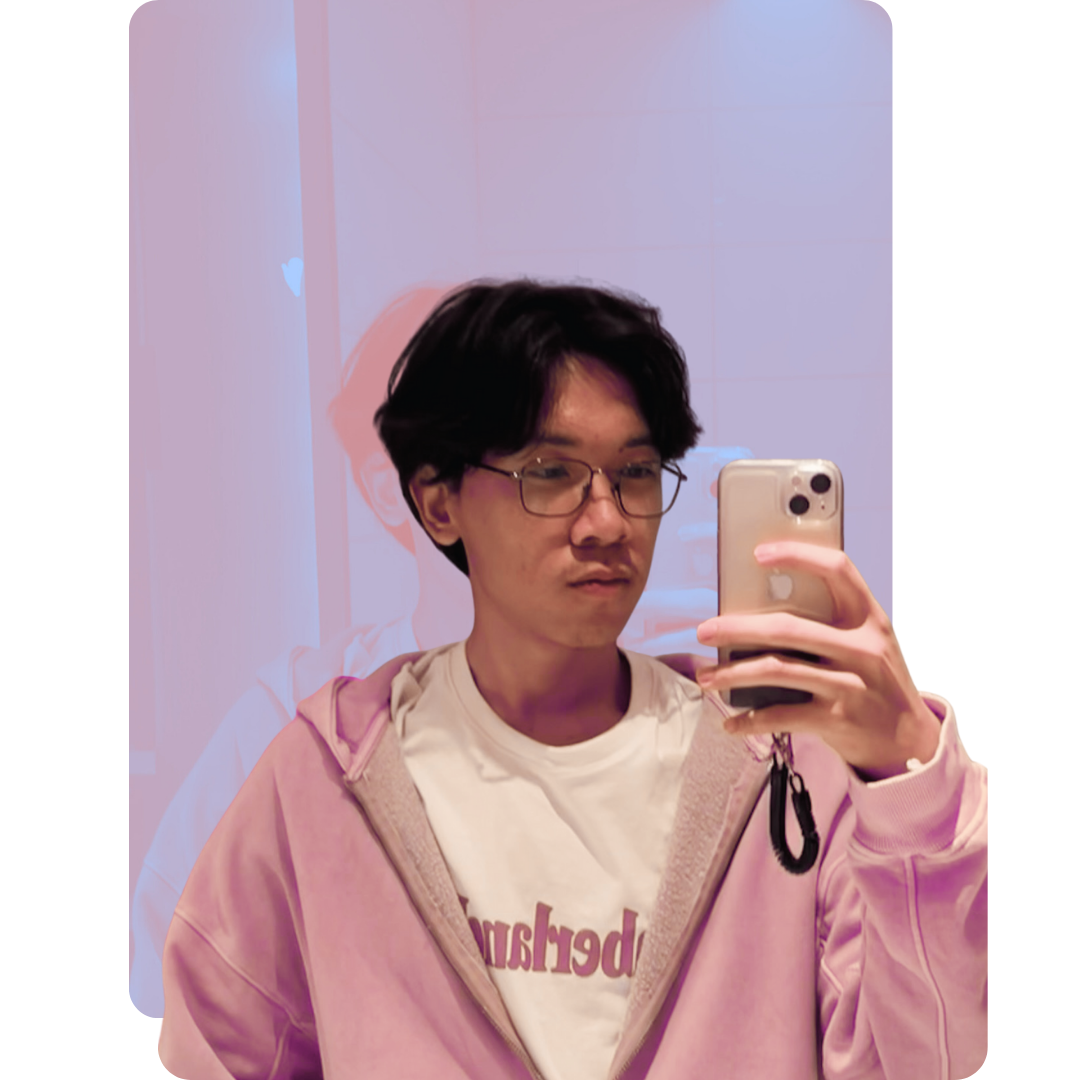
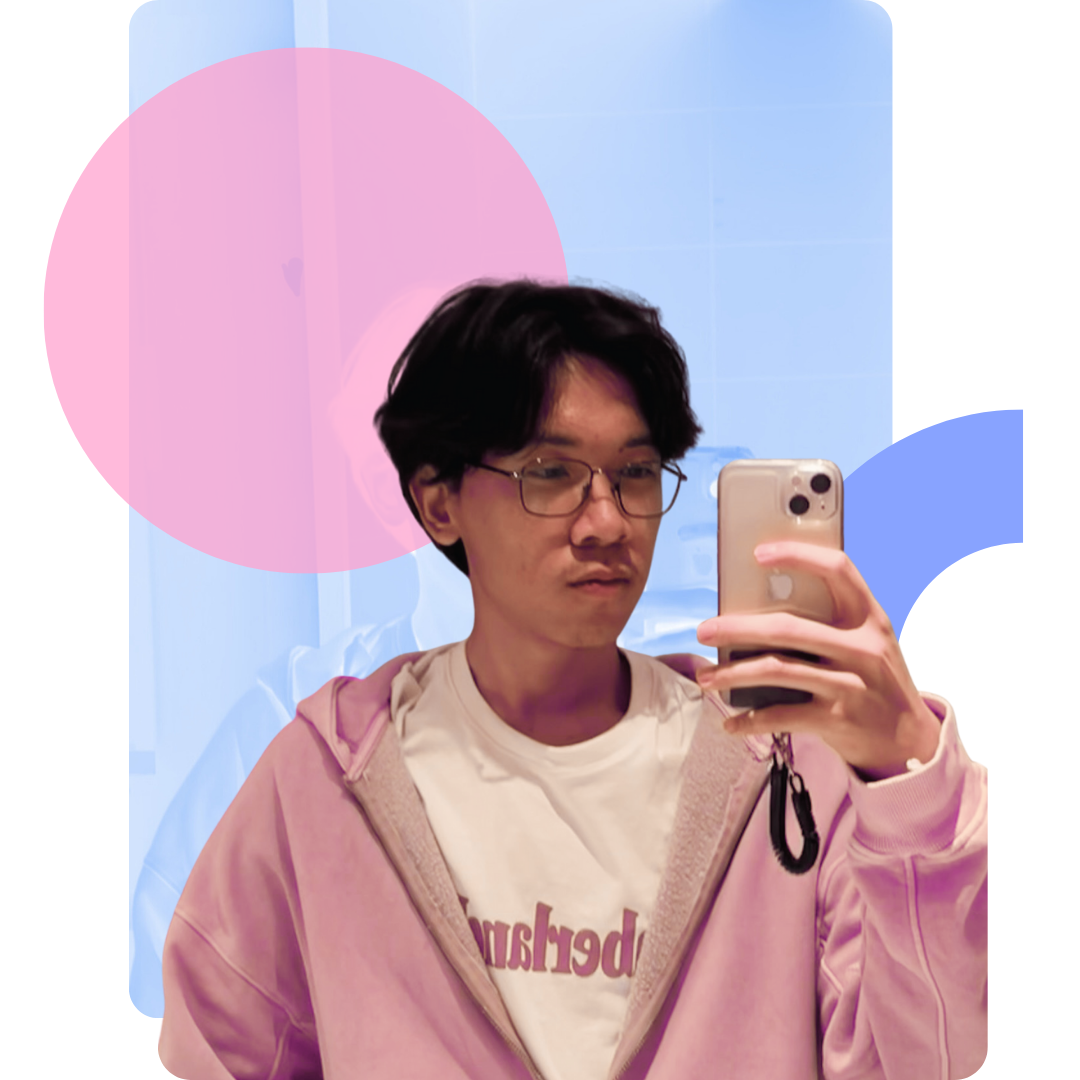
feat: added about me section; ui: added website grain and styling for about me section

diff --git a/mark-erwin.html b/mark-erwin.html
@@ -32,7 +32,7 @@
 					<div class="nav-text">Software Dev in the Health Sector &lt;3</div>
 
 					<div class="nav-tab">
-						<a href="#about">About Me</a>
+						<a href="#about-head">About Me</a>
 						<a href="#experiences">Experiences</a>
 						<a href="#projects">Projects</a>
 						<a href="#contact">Contact</a>
@@ -52,12 +52,17 @@
 				<div class="flex-column">
 					<div class="flex-row" id="about">
 						<div class="flex-column" style="flex:1">
-							<h1>DEVELOPER,<br/>RESEARCHER,<br/>CREATIVE/</h1>
-							<img class="unselectable" id="author-img" src="assets/author-image.png" alt="Image of the author"/>
+							<h1 id="about-head">>/<br/>DEVELOPER,<br/>RESEARCHER,<br/>CREATIVE/</h1>
+							<img class="unselectable float3" id="author-img" src="assets/author-image.png" alt="Image of the author"/>
 						</div>
 						<div>
 							<p>
-								Award-winning student researcher at the University of the Philippines Los Baños, specializing in the intersection of machine learning and public health. Driven by the mission to optimize healthcare delivery through health informatics, I am seeking a career where I can apply my software development and data skills to build ICT solutions for the health sector.
+								<span class="bio-header">(About Me)</span><br/><br/>
+								Hi there! I am a creative researcher and developer from the University of the Philippines - Los Baños,
+								<span class="bold">specializing in the intersection of computer science and public health.</span> I hailed from my second home, Qatar, and with my hands-on experience 
+								in programming, image processing, and tech research, I found my way back home in the Philippines driven by the 
+								mission to optimize healthcare delivery through health informatics. <br/><br/>I am pursuing a career where I can apply my 
+								software development and data skills to build <span class="bold">ICT solutions for the health sector.</span>
 							</p>
 						</div>
 					</div>

diff --git a/main.css b/main.css
@@ -13,6 +13,22 @@ body {
   box-sizing: border-box;
 }
 
+body::before {
+    content: "";
+    position: fixed;
+    top: 0;
+    left: 0;
+    width: 100%;
+    height: 100%;
+    background-image: url("https://i0.wp.com/css-tricks.com/wp-content/uploads/2022/11/tv-static.jpg?fit=1200%2C675&ssl=1&resize=350%2C200");
+    
+    opacity: 0.05; 
+    z-index: 9999; 
+    pointer-events: none;
+    
+    animation: grain-flicker 8s steps(10) infinite;
+}
+
 .card{
   background-color: white;
 	width: 100vw;
@@ -29,12 +45,13 @@ body {
 #card1{
   animation: fade-out linear both;
   animation-timeline: --page-scroll;
-  animation-range: 0% 40%;
+  animation-range: 0% 60%;
   background-color: #CFDAFF;
 }
 
 #card2{
   	box-shadow: 0 20px 42px black;
+    background-color: #ffc9e3;
 }
 
 .border{

diff --git a/about.css b/about.css
@@ -5,20 +5,32 @@
 #about h1{
     position: relative;
     text-align: left;
-    font-size: 64px;
+    font-size: 3.5vw;
     margin-right: 25%;
-    color: #F1A8CC;
+    margin-left: 20%;
+    color: #6a8dff;
+    mix-blend-mode: multiply;
+}
+
+.bio-header{
+    font-family: Roboto Mono;
+    font-style: bold;
+    font-weight: 650;
 }
 
 #about p{
-    font-size: 24px;
+    font-size: 1.4vw;
     margin-left: 25%;
     margin-right:10%;
+    margin-top: 10%;
+    color: #6F73E1;
+    line-height: 1.7vw;
+    
 }
 
 #author-img {
     width: 40vw;
-    max-width: none;
-    margin-top: -15%;
+    margin-top: -30%;
     z-index: -1;
+    margin-left: 25%;
 }

diff --git a/nav.css b/nav.css
@@ -30,12 +30,15 @@
     flex-direction: row;
 	font-family: Roboto Mono;
 	font-style: italic;
+    margin-left: 1%;
 }
 
 .nav-tab a{
 	text-decoration: none;
 	color: white;
 	transition: transform 0.3s ease;
+    font-size: clamp(12px, 1.2vw, 18px);
+    border-radius: 4px;
 }
 
 .nav-tab a:hover{

diff --git a/utils.css b/utils.css
@@ -22,6 +22,11 @@
     -o-user-select: none;
 }
 
+.bold{
+    font-weight: 650;
+  	font-style: bold;
+}
+
 
 @keyframes fade-out {
   from { opacity: 1; }
